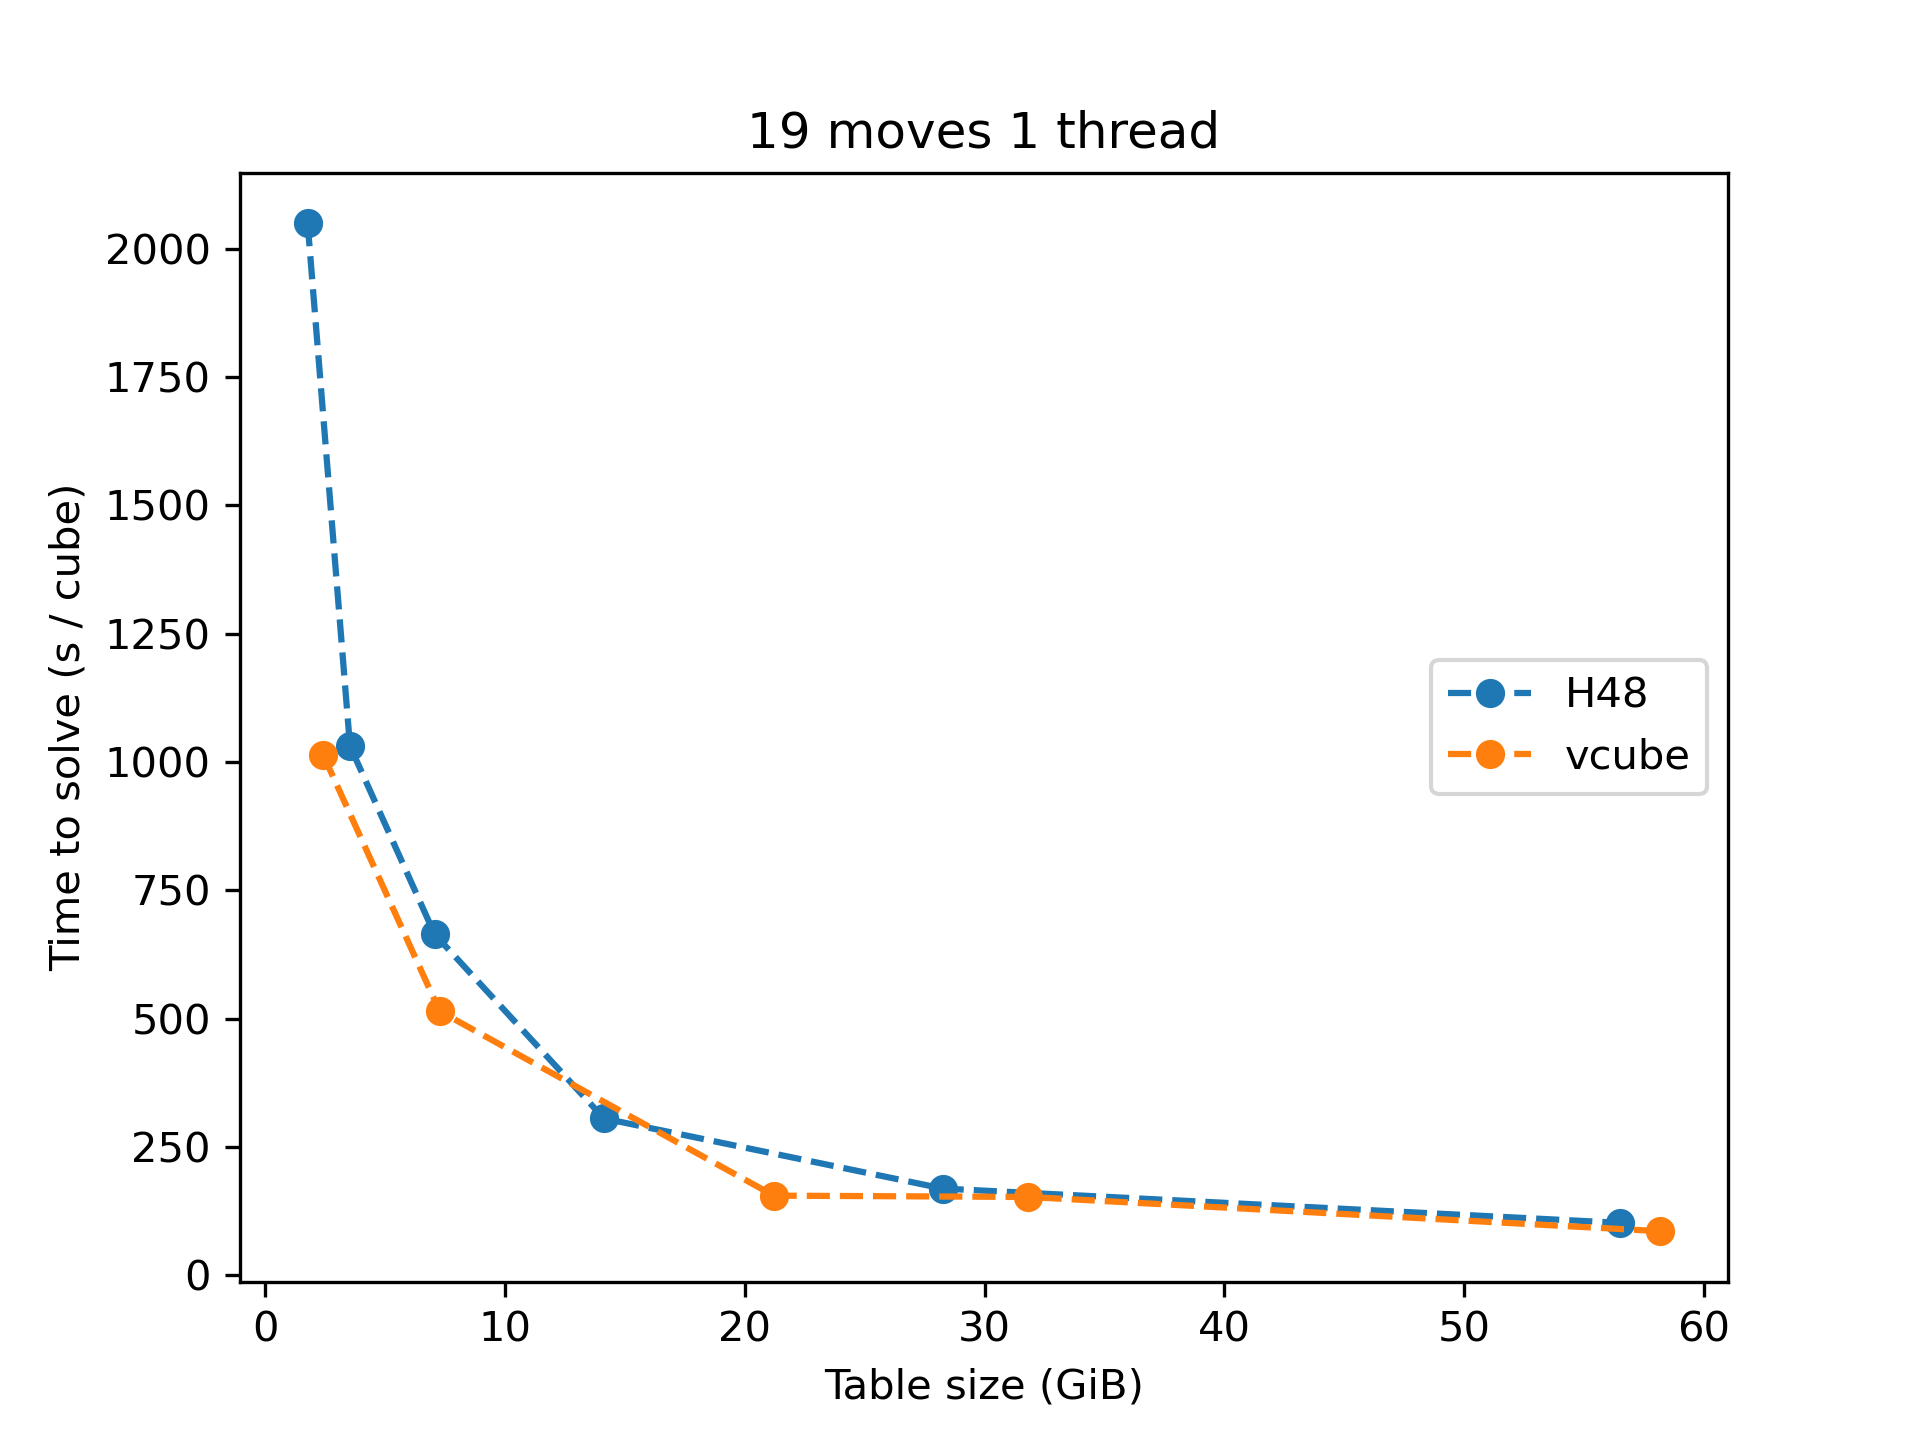
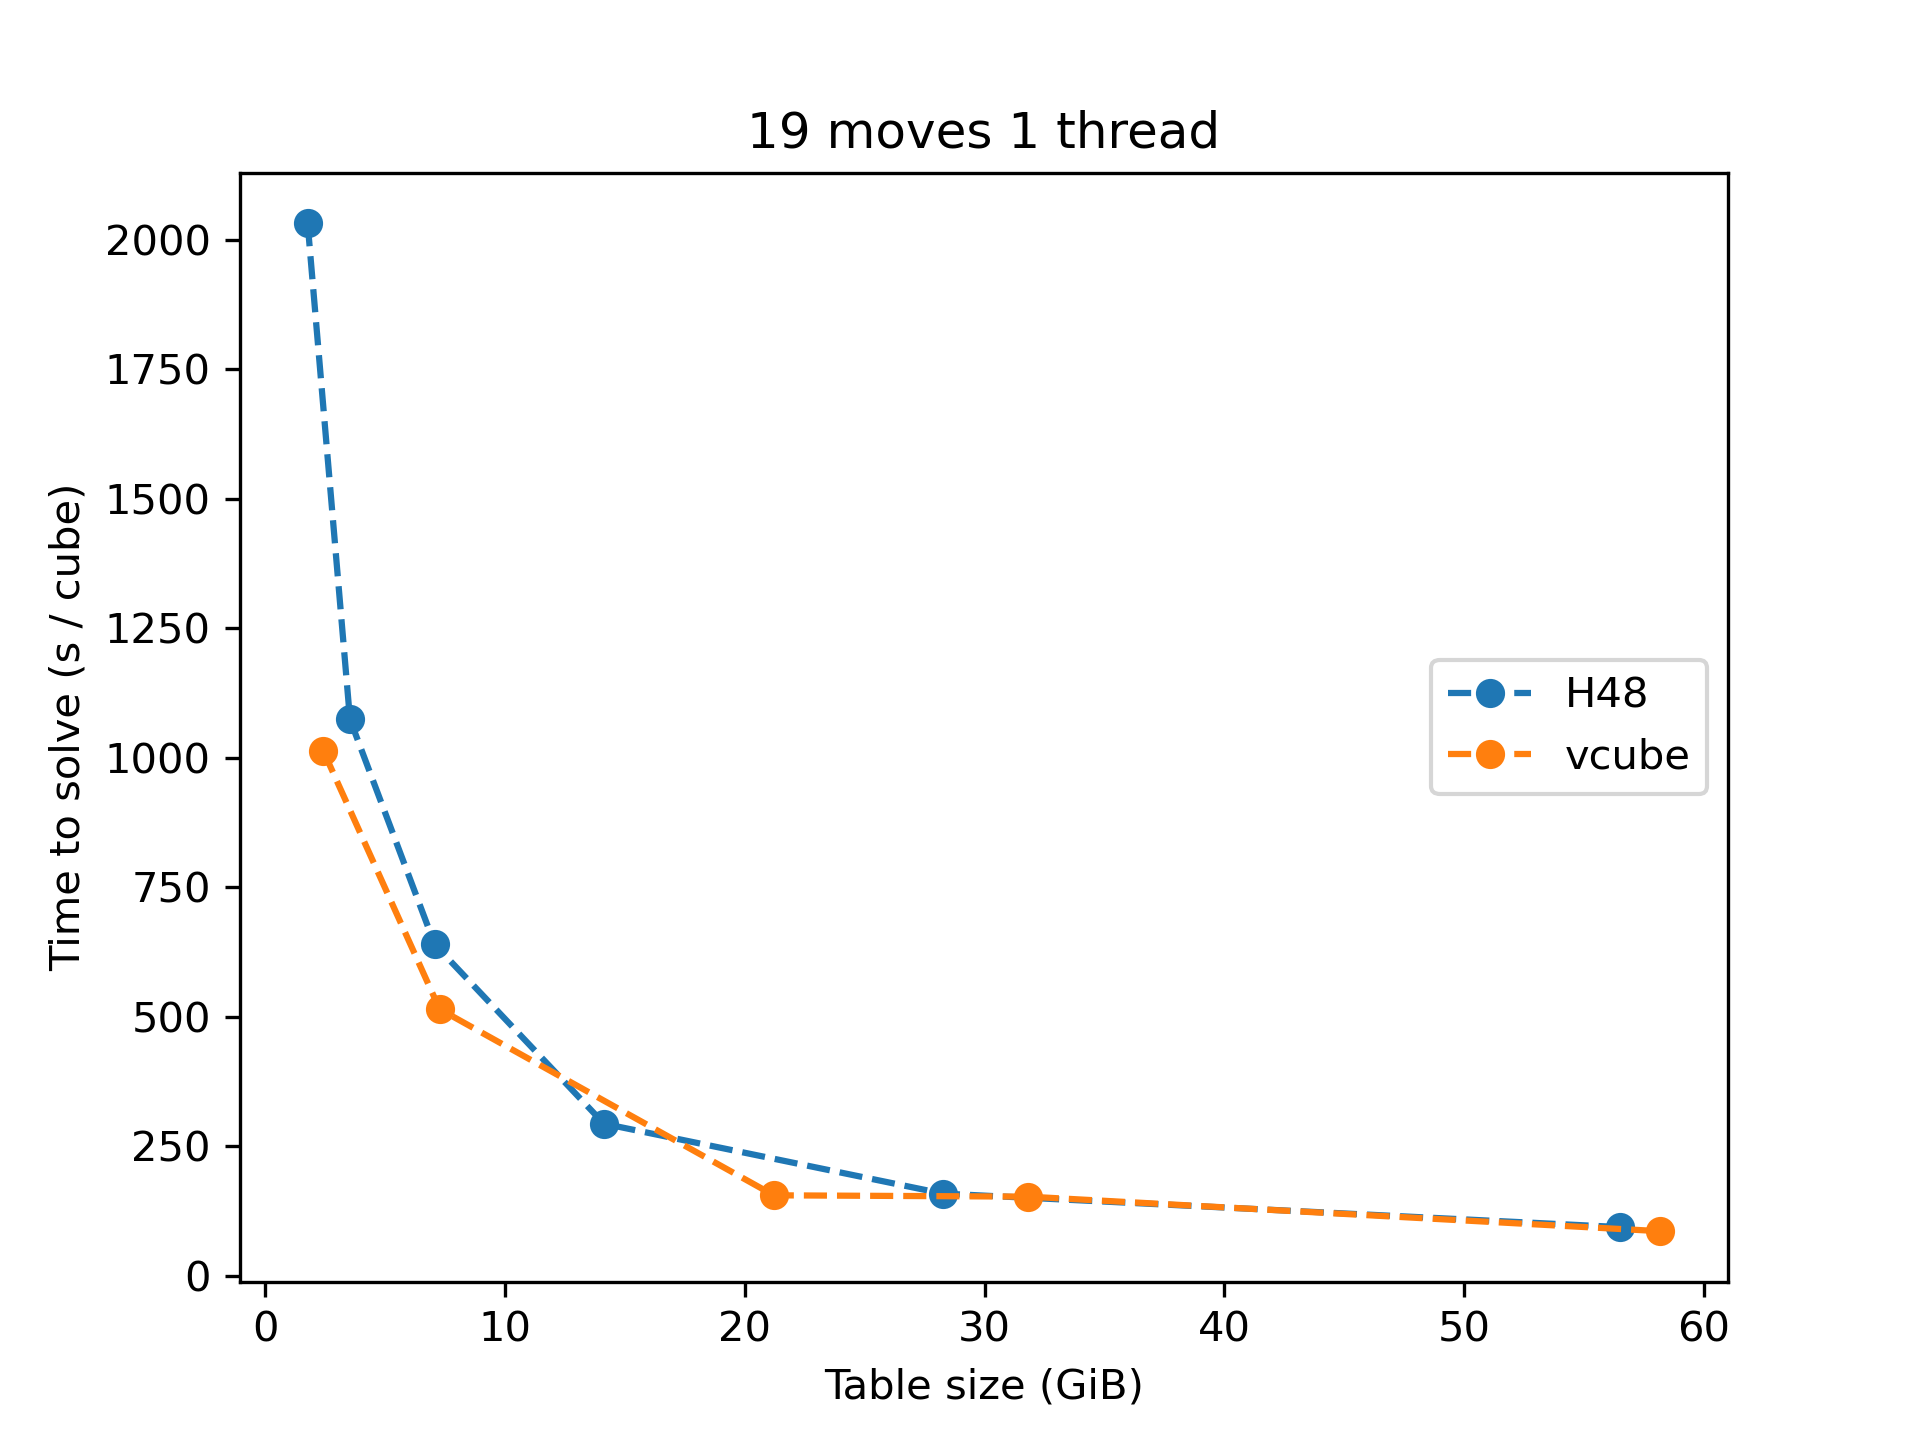
Improve pruning value fetching and re-do benchmarks

diff --git a/benchmarks/results_h48.py b/benchmarks/results_h48.py
@@ -1,36 +1,36 @@
 h48_single_thread = {
-	6: {17: 52.6781, 18: 398.7213, 19: 2049.9640},
-	7: {17: 25.6133, 18: 205.2683, 19: 1031.1970},
-	8: {17: 21.8331, 18: 165.3185, 19: 664.2050},
-	9: {17: 9.4036, 18: 66.6141, 19: 305.3164},
-	10: {17: 6.8148, 18: 36.6565, 19: 168.7843, 20: 1166.2200, "superflip": 60.5523},
-	11: {17: 3.8640, 18: 22.8206, 19: 101.9301, 20: 670.2421, "superflip": 26.9025},
+	6: {17: 52.7302, 18: 405.7879, 19: 2032.4602},
+	7: {17: 26.4977, 18: 212.7314, 19: 1074.2251},
+	8: {17: 19.8239, 18: 151.7597, 19: 639.6197},
+	9: {17: 9.0082, 18: 62.0400, 19: 293.2197},
+	10: {17: 6.2190, 18: 31.1395, 19: 158.3581, 20: 1118.7513, "superflip": 48.7016},
+	11: {17: 3.5879, 18: 19.5970, 19: 93.5762, 20: 651.2212, "superflip": 20.2721},
 }
 
 h48_4_threads = {
-	6: {17: 15.6631, 18: 116.6983, 19: 616.6293},
-	7: {17: 7.5627, 18: 57.9755, 19: 293.4441},
-	8: {17: 6.3879, 18: 46.6986, 19: 195.8814},
-	9: {17: 2.9011, 18: 19.1689, 19: 85.5939, 20: 617.9417, "superflip": 29.3115},
-	10: {17: 1.9637, 18: 9.7415, 19: 47.3158, 20: 326.8692, "superflip": 16.6325},
-	11: {17: 1.2589, 18: 6.5298, 19: 28.2996, 20: 190.1169, "superflip": 8.4383},
+	6: {17: 15.2794, 18: 116.1387, 19: 577.3595},
+	7: {17: 7.7522, 18: 59.8914, 19: 293.4824},
+	8: {17: 5.8807, 18: 42.7619, 19: 180.4499},
+	9: {17: 2.7609, 18: 18.4867, 19: 84.1350, 20: 610.8914, "superflip": 25.3932},
+	10: {17: 1.9215, 18: 9.1287, 19: 43.7573, 20: 338.4877, "superflip": 14.2593},
+	11: {17: 1.1997, 18: 5.8332, 19: 26.6060, 20: 176.8453, "superflip": 6.1932},
 }
 
 h48_16_threads = {
-	6: {17: 5.2001, 18: 37.0525, 19: 192.4323},
-	7: {17: 2.7835, 18: 19.8514, 19: 97.1157},
-	8: {17: 2.3060, 18: 15.9383, 19: 62.6004},
-	9: {17: 1.0799, 18: 6.5733, 19: 28.7205, 20: 203.8189, "superflip": 12.1779},
-	10: {17: 0.7715, 18: 3.5307, 19: 15.4995, 20: 105.9181, "superflip": 7.0716},
-	11: {17: 0.5313, 18: 2.3848, 19: 9.3324, 20: 57.7204, "superflip": 3.4673},
+	6: {17: 5.3639, 18: 37.6695, 19: 191.8620},
+	7: {17: 2.8213, 18: 20.1045, 19: 96.7922},
+	8: {17: 2.0779, 18: 14.6013, 19: 60.4149},
+	9: {17: 1.0796, 18: 6.1831, 19: 27.5530, 20: 200.9519, "superflip": 10.7149},
+	10: {17: 0.7511, 18: 3.2061, 19: 15.0046, 20: 103.8125, "superflip": 5.6217},
+	11: {17: 0.5173, 18: 2.1196, 19: 8.6965, 20: 56.4344, "superflip": 2.4857},
 }
 
 h48_all_solutions = {
-	6: {17: 17.3451, 18: 207.8877, 19: 2297.1491},
-	7: {17: 9.0715, 18: 104.6421, 19: 1169.2355},
-	8: {17: 6.6934, 18: 74.8913, 19: 728.2341},
-	9: {17: 3.1790, 18: 34.6734, 19: 333.7746},
-	10: {17: 1.9342, 18: 19.5612, 19: 175.0206, 20: 1494.2053, "superflip": 62.4507},
-	11: {17: 1.2574, 18: 11.5760, 19: 99.4671, 20: 831.7873, "superflip": 31.8256},
+	6: {17: 17.1940, 18: 203.6879, 19: 2286.7364},
+	7: {17: 9.0219, 18: 105.0559, 19: 1166.1059},
+	8: {17: 5.9919, 18: 68.8215, 19: 686.0935},
+	9: {17: 3.0192, 18: 31.9398, 19: 319.0297},
+	10: {17: 1.7972, 18: 17.8931, 19: 167.6695, 20: 1464.2636, "superflip": 48.9035},
+	11: {17: 1.1838, 18: 10.5628, 19: 96.0518, 20: 808.8516, "superflip": 22.6335},
 }
 

diff --git a/src/solvers/h48/solve.h b/src/solvers/h48/solve.h
@@ -108,9 +108,9 @@ STATIC_INLINE bool
 solve_h48_stop(dfsarg_solve_h48_t arg[static 1])
 {
 	uint32_t data, data_inv;
-	int64_t coord, coordext, coordmin;
+	int64_t coord;
 	int8_t target, nh, n;
-	uint8_t pval_min, pval_eoesep;
+	uint8_t pval, pval_min, pval_eoesep;
 
 	arg->movemask_normal = arg->movemask_inverse = MM18_ALLMOVES;
 	arg->nodes_visited++;
@@ -132,25 +132,23 @@ solve_h48_stop(dfsarg_solve_h48_t arg[static 1])
 	/* Inverse probing */
 
 	if (!arg->use_lb_inverse) {
+		arg->table_lookups++;
+		arg->use_lb_inverse = true;
 		coord = coord_h48_edges(
 		    arg->inverse, COCLASS(data_inv), TTREP(data_inv), arg->h);
-		coordext = H48_LINE_EXT(coord);
-		arg->lb_inverse = get_h48_pval(arg->h48data, coordext);
-		arg->table_lookups++;
+		pval = get_h48_pval_and_min(arg->h48data, coord, &pval_min);
 
-		if (arg->lb_inverse == 0) {
+		if (pval == 0) {
 			arg->table_fallbacks++;
 
-			coordmin = H48_LINE_MIN(coord);
-			pval_min = get_h48_pvalmin(arg->h48data, coordmin);
 			pval_eoesep = get_eoesep_pval_cube(
 			    arg->h48data_fallback_eoesep, arg->inverse);
-			arg->lb_inverse = MAX(pval_min, pval_eoesep);
+			pval = MAX(pval_min, pval_eoesep);
 		} else {
-			arg->lb_inverse += arg->base;
+			pval += arg->base;
 		}
 
-		arg->use_lb_inverse = true;
+		arg->lb_inverse = pval;
 	}
 
 	if (arg->lb_inverse > target)
@@ -161,25 +159,23 @@ solve_h48_stop(dfsarg_solve_h48_t arg[static 1])
 	/* Normal probing */
 
 	if (!arg->use_lb_normal) {
+		arg->table_lookups++;
+		arg->use_lb_normal = true;
 		coord = coord_h48_edges(
 		    arg->cube, COCLASS(data), TTREP(data), arg->h);
-		coordext = H48_LINE_EXT(coord);
-		arg->lb_normal = get_h48_pval(arg->h48data, coordext);
-		arg->table_lookups++;
+		pval = get_h48_pval_and_min(arg->h48data, coord, &pval_min);
 
-		if (arg->lb_normal == 0) {
+		if (pval == 0) {
 			arg->table_fallbacks++;
 
-			coordmin = H48_LINE_MIN(coord);
-			pval_min = get_h48_pval(arg->h48data, coordmin);
 			pval_eoesep = get_eoesep_pval_cube(
 			    arg->h48data_fallback_eoesep, arg->cube);
-			arg->lb_normal = MAX(pval_min, pval_eoesep);
+			pval = MAX(pval_min, pval_eoesep);
 		} else {
-			arg->lb_normal += arg->base;
+			pval += arg->base;
 		}
 
-		arg->use_lb_normal = true;
+		arg->lb_normal = pval;
 	}
 
 	if (arg->lb_normal > target)

diff --git a/src/solvers/h48/gendata_h48.h b/src/solvers/h48/gendata_h48.h
@@ -18,6 +18,8 @@ STATIC_INLINE uint8_t get_h48_pval(const unsigned char *, uint64_t);
 STATIC_INLINE void set_h48_pval(unsigned char *, uint64_t, uint8_t);
 STATIC_INLINE uint8_t get_h48_pvalmin(const unsigned char *, uint64_t);
 STATIC_INLINE void set_h48_pvalmin(unsigned char *, uint64_t, uint8_t);
+STATIC_INLINE uint8_t get_h48_pval_and_min(
+    const unsigned char *, uint64_t, uint8_t [static 1]);
 
 STATIC long long
 gendata_h48_dispatch(
@@ -525,4 +527,23 @@ set_h48_pvalmin(unsigned char *table, uint64_t i, uint8_t val)
 	v = MIN(val, get_h48_pvalmin(table, i));
 	t = table[H48_INDEX(i)];
 	table[H48_INDEX(i)] = (t & UINT8_C(0xF)) | (v << UINT8_C(4));
+}
+
+STATIC_INLINE uint8_t
+get_h48_pval_and_min(
+	const unsigned char *table,
+	uint64_t coord_noext,
+	uint8_t pval_min[static 1]
+)
+{
+	uint64_t iext, imin;
+	uint8_t t, tmin;
+
+	iext = H48_LINE_EXT(coord_noext);
+	imin = H48_LINE_MIN(coord_noext);
+	t = table[H48_INDEX(iext)];
+	tmin = table[H48_INDEX(imin)];
+
+	*pval_min = tmin >> UINT8_C(4);
+	return (t & H48_MASK(iext)) >> H48_SHIFT(iext);
 }

diff --git a/benchmarks/benchmarks.md b/benchmarks/benchmarks.md
@@ -70,32 +70,32 @@ Time per cube (in seconds, lower is better).
 |  Solver  |  Size  |17 moves|18 moves|19 moves|20 moves|Superflip|
 |:---------|:-------|-------:|-------:|-------:|-------:|--------:|
 |vcube 212 |58.2 Gib|    0.11|    0.75|    3.43|   27.28|    19.30|
-|H48 h11   |56.5 Gib|    0.15|    0.91|    4.08|   26.81|    26.90|
+|H48 h11   |56.5 Gib|    0.14|    0.78|    3.74|   26.05|    20.27|
 |vcube 404 |31.8 Gib|    0.23|    1.24|    6.10|   59.33|   268.26|
-|H48 h10   |28.3 Gib|    0.27|    1.47|    6.75|   46.65|    60.55|
+|H48 h10   |28.3 Gib|    0.25|    1.25|    6.33|   44.75|    48.70|
 |vcube 308 |21.2 Gib|    0.17|    1.02|    6.20|   58.70|   604.35|
-|H48 h9    |14.1 Gib|    0.38|    2.66|   12.21|        |         |
+|H48 h9    |14.1 Gib|    0.36|    2.48|   11.73|        |         |
 |vcube 208 | 7.3 Gib|    0.56|    4.36|   20.58|        |         |
-|H48 h8    | 7.1 Gib|    0.87|    6.61|   26.57|        |         |
-|H48 h7    | 3.5 Gib|    1.02|    8.21|   41.25|        |         |
+|H48 h8    | 7.1 Gib|    0.79|    6.07|   25.58|        |         |
+|H48 h7    | 3.5 Gib|    1.06|    8.51|   42.97|        |         |
 |vcube 112 | 2.4 Gib|    0.96|    9.29|   40.52|        |         |
-|H48 h6    | 1.8 Gib|    2.11|   15.95|   82.00|        |         |
+|H48 h6    | 1.8 Gib|    2.11|   16.23|   81.30|        |         |
 
 Time per cube adjusted for table size (in seconds \* GiB, lower is better).
 
 |  Solver  |  Size  |17 moves|18 moves|19 moves|20 moves|Superflip|
 |:---------|:-------|-------:|-------:|-------:|-------:|--------:|
 |vcube 212 |58.2 Gib|    6.43|   43.80|  199.38| 1587.43|  1122.73|
-|H48 h11   |56.5 Gib|    8.73|   51.58|  230.38| 1514.85|  1520.10|
+|H48 h11   |56.5 Gib|    8.11|   44.29|  211.50| 1471.86|  1145.45|
 |vcube 404 |31.8 Gib|    7.40|   39.47|  194.01| 1887.94|  8535.87|
-|H48 h10   |28.3 Gib|    7.70|   41.43|  190.75| 1317.96|  1710.78|
+|H48 h10   |28.3 Gib|    7.03|   35.19|  178.96| 1264.32|  1375.96|
 |vcube 308 |21.2 Gib|    3.51|   21.71|  131.50| 1245.26| 12819.94|
-|H48 h9    |14.1 Gib|    5.31|   37.64|  172.53|        |         |
+|H48 h9    |14.1 Gib|    5.09|   35.06|  165.70|        |         |
 |vcube 208 | 7.3 Gib|    4.08|   31.74|  149.68|        |         |
-|H48 h8    | 7.1 Gib|    6.17|   46.72|  187.70|        |         |
-|H48 h7    | 3.5 Gib|    3.62|   29.01|  145.74|        |         |
+|H48 h8    | 7.1 Gib|    5.60|   42.89|  180.75|        |         |
+|H48 h7    | 3.5 Gib|    3.74|   30.07|  151.82|        |         |
 |vcube 112 | 2.4 Gib|    2.33|   22.53|   98.23|        |         |
-|H48 h6    | 1.8 Gib|    3.72|   28.19|  144.94|        |         |
+|H48 h6    | 1.8 Gib|    3.73|   28.69|  143.70|        |         |
 
 <img src="img/17moves1thread.png">
 <img src="img/18moves1thread.png">
@@ -110,32 +110,32 @@ Time per cube (in seconds, lower is better).
 |  Solver  |  Size  |17 moves|18 moves|19 moves|20 moves|Superflip|
 |:---------|:-------|-------:|-------:|-------:|-------:|--------:|
 |vcube 212 |58.2 Gib|    0.03|    0.27|    1.04|    7.70|   (a)   |
-|H48 h11   |56.5 Gib|    0.05|    0.26|    1.13|    7.60|     8.44|
+|H48 h11   |56.5 Gib|    0.05|    0.23|    1.06|    7.07|     6.19|
 |vcube 404 |31.8 Gib|    0.07|    0.30|    1.65|   16.17|   (a)   |
-|H48 h10   |28.3 Gib|    0.08|    0.39|    1.89|   13.07|    16.63|
+|H48 h10   |28.3 Gib|    0.08|    0.37|    1.75|   13.54|    14.26|
 |vcube 308 |21.2 Gib|    0.05|    0.35|    1.78|   16.61|   (a)   |
-|H48 h9    |14.1 Gib|    0.12|    0.77|    3.42|   24.72|    29.31|
+|H48 h9    |14.1 Gib|    0.11|    0.74|    3.37|   24.44|    25.39|
 |vcube 208 | 7.3 Gib|    0.16|    1.47|    5.86|        |   (a)   |
-|H48 h8    | 7.1 Gib|    0.26|    1.87|    7.84|        |         |
-|H48 h7    | 3.5 Gib|    0.30|    2.32|   11.74|        |         |
+|H48 h8    | 7.1 Gib|    0.24|    1.71|    7.22|        |         |
+|H48 h7    | 3.5 Gib|    0.31|    2.40|   11.74|        |         |
 |vcube 112 | 2.4 Gib|    0.29|    3.13|   11.95|        |   (a)   |
-|H48 h6    | 1.8 Gib|    0.63|    4.67|   24.67|        |         |
+|H48 h6    | 1.8 Gib|    0.61|    4.65|   23.09|        |         |
 
 Time per cube adjusted for table size (in seconds \* GiB, lower is better).
 
 |  Solver  |  Size  |17 moves|18 moves|19 moves|20 moves|Superflip|
 |:---------|:-------|-------:|-------:|-------:|-------:|--------:|
 |vcube 212 |58.2 Gib|    2.03|   15.69|   60.25|  447.97|   (a)   |
-|H48 h11   |56.5 Gib|    2.85|   14.76|   63.96|  429.69|   476.80|
+|H48 h11   |56.5 Gib|    2.71|   13.18|   60.13|  399.70|   349.94|
 |vcube 404 |31.8 Gib|    2.32|    9.50|   52.46|  514.50|   (a)   |
-|H48 h10   |28.3 Gib|    2.22|   11.01|   53.47|  369.40|   469.92|
+|H48 h10   |28.3 Gib|    2.17|   10.32|   49.45|  382.53|   402.87|
 |vcube 308 |21.2 Gib|    1.02|    7.52|   37.82|  352.36|   (a)   |
-|H48 h9    |14.1 Gib|    1.64|   10.83|   48.37|  349.20|   414.10|
+|H48 h9    |14.1 Gib|    1.56|   10.45|   47.54|  345.21|   358.74|
 |vcube 208 | 7.3 Gib|    1.18|   10.69|   42.63|        |   (a)   |
-|H48 h8    | 7.1 Gib|    1.81|   13.20|   55.35|        |         |
-|H48 h7    | 3.5 Gib|    1.07|    8.19|   41.47|        |         |
+|H48 h8    | 7.1 Gib|    1.66|   12.08|   50.99|        |         |
+|H48 h7    | 3.5 Gib|    1.10|    8.46|   41.48|        |         |
 |vcube 112 | 2.4 Gib|    0.69|    7.59|   28.97|        |   (a)   |
-|H48 h6    | 1.8 Gib|    1.11|    8.25|   43.60|        |         |
+|H48 h6    | 1.8 Gib|    1.08|    8.21|   40.82|        |         |
 
 (a) vcube cannot parallelize on a single scramble, the results for the
 superflip are going to be the same as in the single thread case.
@@ -153,32 +153,32 @@ Time per cube (in seconds, lower is better).
 |  Solver  |  Size  |17 moves|18 moves|19 moves|20 moves|Superflip|
 |:---------|:-------|-------:|-------:|-------:|-------:|--------:|
 |vcube 212 |58.2 Gib|    0.02|    0.13|    0.45|    2.84|   (a)   |
-|H48 h11   |56.5 Gib|    0.02|    0.10|    0.37|    2.31|     3.47|
+|H48 h11   |56.5 Gib|    0.02|    0.08|    0.35|    2.26|     2.49|
 |vcube 404 |31.8 Gib|    0.04|    0.14|    0.65|    6.08|   (a)   |
-|H48 h10   |28.3 Gib|    0.03|    0.14|    0.62|    4.24|     7.07|
+|H48 h10   |28.3 Gib|    0.03|    0.13|    0.60|    4.15|     5.62|
 |vcube 308 |21.2 Gib|    0.03|    0.19|    0.78|    6.67|   (a)   |
-|H48 h9    |14.1 Gib|    0.04|    0.26|    1.15|    8.15|    12.18|
+|H48 h9    |14.1 Gib|    0.04|    0.25|    1.10|    8.04|    10.71|
 |vcube 208 | 7.3 Gib|    0.08|    0.79|    2.43|        |   (a)   |
-|H48 h8    | 7.1 Gib|    0.09|    0.64|    2.50|        |         |
-|H48 h7    | 3.5 Gib|    0.11|    0.79|    3.88|        |         |
+|H48 h8    | 7.1 Gib|    0.08|    0.58|    2.42|        |         |
+|H48 h7    | 3.5 Gib|    0.11|    0.80|    3.87|        |         |
 |vcube 112 | 2.4 Gib|    0.15|    1.63|    5.10|        |   (a)   |
-|H48 h6    | 1.8 Gib|    0.21|    1.48|    7.70|        |         |
+|H48 h6    | 1.8 Gib|    0.21|    1.51|    7.67|        |         |
 
 Time per cube adjusted for table size (in seconds \* GiB, lower is better).
 
 |  Solver  |  Size  |17 moves|18 moves|19 moves|20 moves|Superflip|
 |:---------|:-------|-------:|-------:|-------:|-------:|--------:|
 |vcube 212 |58.2 Gib|    0.95|    7.83|   26.04|  165.03|   (a)   |
-|H48 h11   |56.5 Gib|    1.20|    5.39|   21.09|  130.46|   195.92|
+|H48 h11   |56.5 Gib|    1.17|    4.79|   19.66|  127.55|   140.45|
 |vcube 404 |31.8 Gib|    1.21|    4.60|   20.76|  193.43|   (a)   |
-|H48 h10   |28.3 Gib|    0.87|    3.99|   17.52|  119.70|   199.79|
+|H48 h10   |28.3 Gib|    0.85|    3.62|   16.96|  117.32|   158.83|
 |vcube 308 |21.2 Gib|    0.67|    4.01|   16.48|  141.49|   (a)   |
-|H48 h9    |14.1 Gib|    0.61|    3.71|   16.23|  115.18|   172.04|
+|H48 h9    |14.1 Gib|    0.61|    3.49|   15.57|  113.56|   151.37|
 |vcube 208 | 7.3 Gib|    0.56|    5.78|   17.68|        |   (a)   |
-|H48 h8    | 7.1 Gib|    0.65|    4.50|   17.69|        |         |
-|H48 h7    | 3.5 Gib|    0.39|    2.81|   13.73|        |         |
+|H48 h8    | 7.1 Gib|    0.59|    4.13|   17.07|        |         |
+|H48 h7    | 3.5 Gib|    0.40|    2.84|   13.68|        |         |
 |vcube 112 | 2.4 Gib|    0.35|    3.95|   12.37|        |   (a)   |
-|H48 h6    | 1.8 Gib|    0.37|    2.62|   13.61|        |         |
+|H48 h6    | 1.8 Gib|    0.38|    2.66|   13.57|        |         |
 
 (a) vcube cannot parallelize on a single scramble, the results for the
 superflip are going to be the same as in the single thread case.
@@ -197,23 +197,24 @@ Time per cube (in seconds, lower is better).
 
 |  Solver  |  Size  |17 moves|18 moves|19 moves|20 moves|Superflip|
 |:---------|:-------|-------:|-------:|-------:|-------:|--------:|
-|H48 h11   |56.5 Gib|    0.05|    0.46|    3.98|   33.27|    31.83|
-|H48 h10   |28.3 Gib|    0.08|    0.78|    7.00|   59.77|    62.45|
-|H48 h9    |14.1 Gib|    0.13|    1.39|   13.35|        |         |
-|H48 h8    | 7.1 Gib|    0.27|    3.00|   29.13|        |         |
-|H48 h7    | 3.5 Gib|    0.36|    4.19|   46.77|        |         |
-|H48 h6    | 1.8 Gib|    0.69|    8.32|   91.89|        |         |
+|H48 h11   |56.5 Gib|    0.05|    0.42|    3.84|   32.35|    22.63|
+|H48 h10   |28.3 Gib|    0.07|    0.72|    6.71|   58.57|    48.90|
+|H48 h9    |14.1 Gib|    0.12|    1.28|   12.76|        |         |
+|H48 h8    | 7.1 Gib|    0.24|    2.75|   27.44|        |         |
+|H48 h7    | 3.5 Gib|    0.36|    4.20|   46.64|        |         |
+|H48 h6    | 1.8 Gib|    0.69|    8.15|   91.47|        |         |
 
 Time per cube adjusted for table size (in seconds \* GiB, lower is better).
 
 |  Solver  |  Size  |17 moves|18 moves|19 moves|20 moves|Superflip|
 |:---------|:-------|-------:|-------:|-------:|-------:|--------:|
-|H48 h11   |56.5 Gib|    2.84|   26.16|  224.81| 1879.97|  1798.27|
-|H48 h10   |28.3 Gib|    2.19|   22.11|  197.79| 1688.62|  1764.41|
-|H48 h9    |14.1 Gib|    1.80|   19.59|  188.61|        |         |
-|H48 h8    | 7.1 Gib|    1.89|   21.16|  205.79|        |         |
-|H48 h7    | 3.5 Gib|    1.28|   14.79|  165.25|        |         |
-|H48 h6    | 1.8 Gib|    1.23|   14.70|  162.42|        |         |
+|H48 h11   |56.5 Gib|    2.68|   23.87|  217.09| 1828.13|  1278.88|
+|H48 h10   |28.3 Gib|    2.03|   20.22|  189.49| 1654.79|  1381.67|
+|H48 h9    |14.1 Gib|    1.71|   18.05|  180.28|        |         |
+|H48 h8    | 7.1 Gib|    1.69|   19.45|  193.88|        |         |
+|H48 h7    | 3.5 Gib|    1.28|   14.85|  164.81|        |         |
+|H48 h6    | 1.8 Gib|    1.22|   14.40|  161.68|        |         |
+
 </details>
 
 ## Comments on the results
